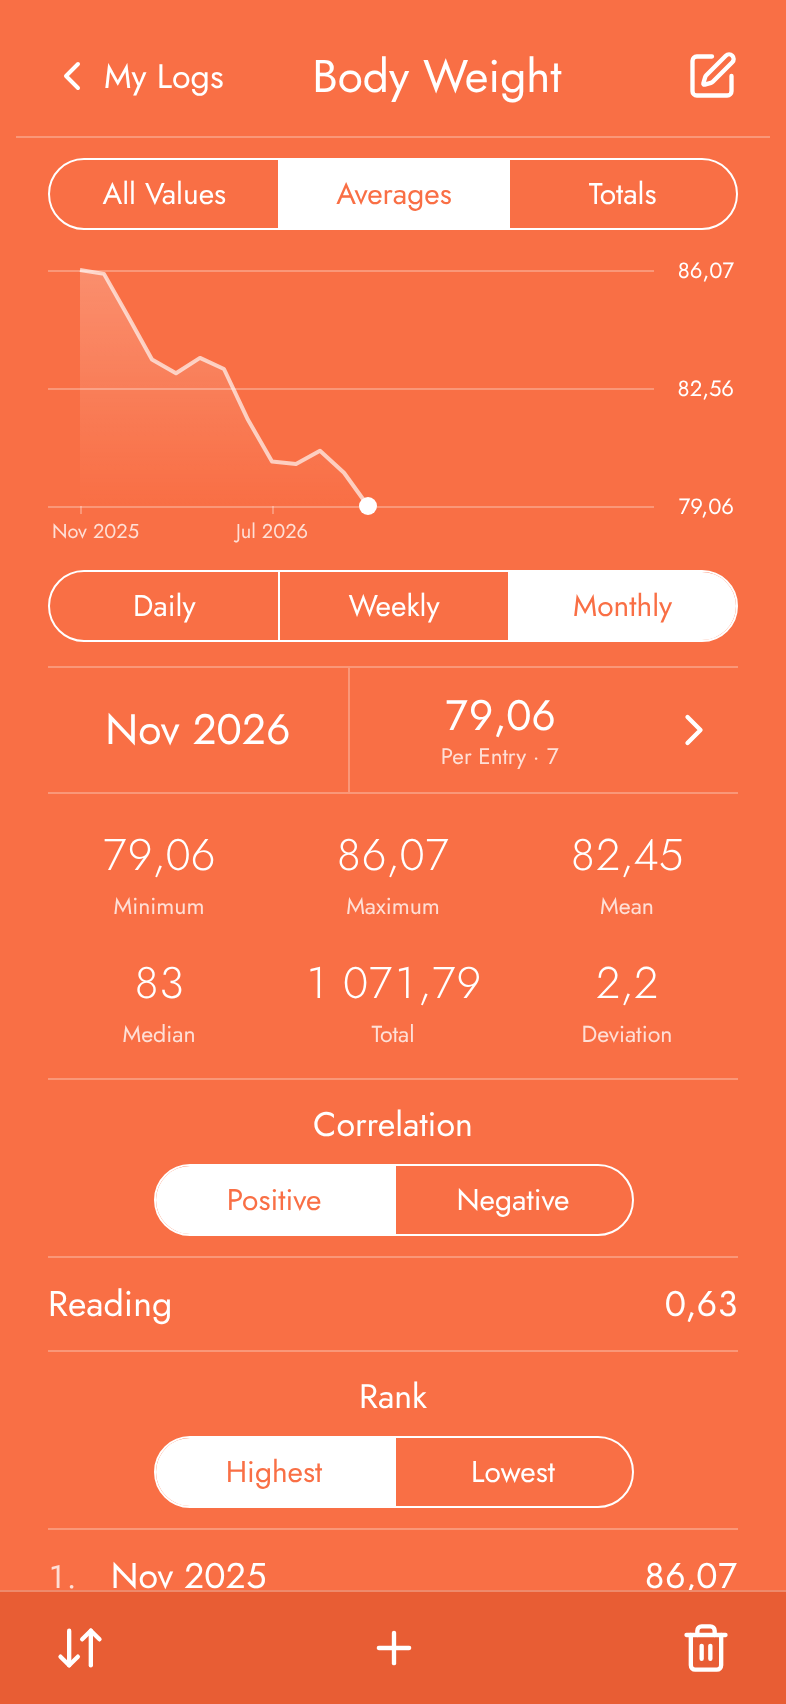
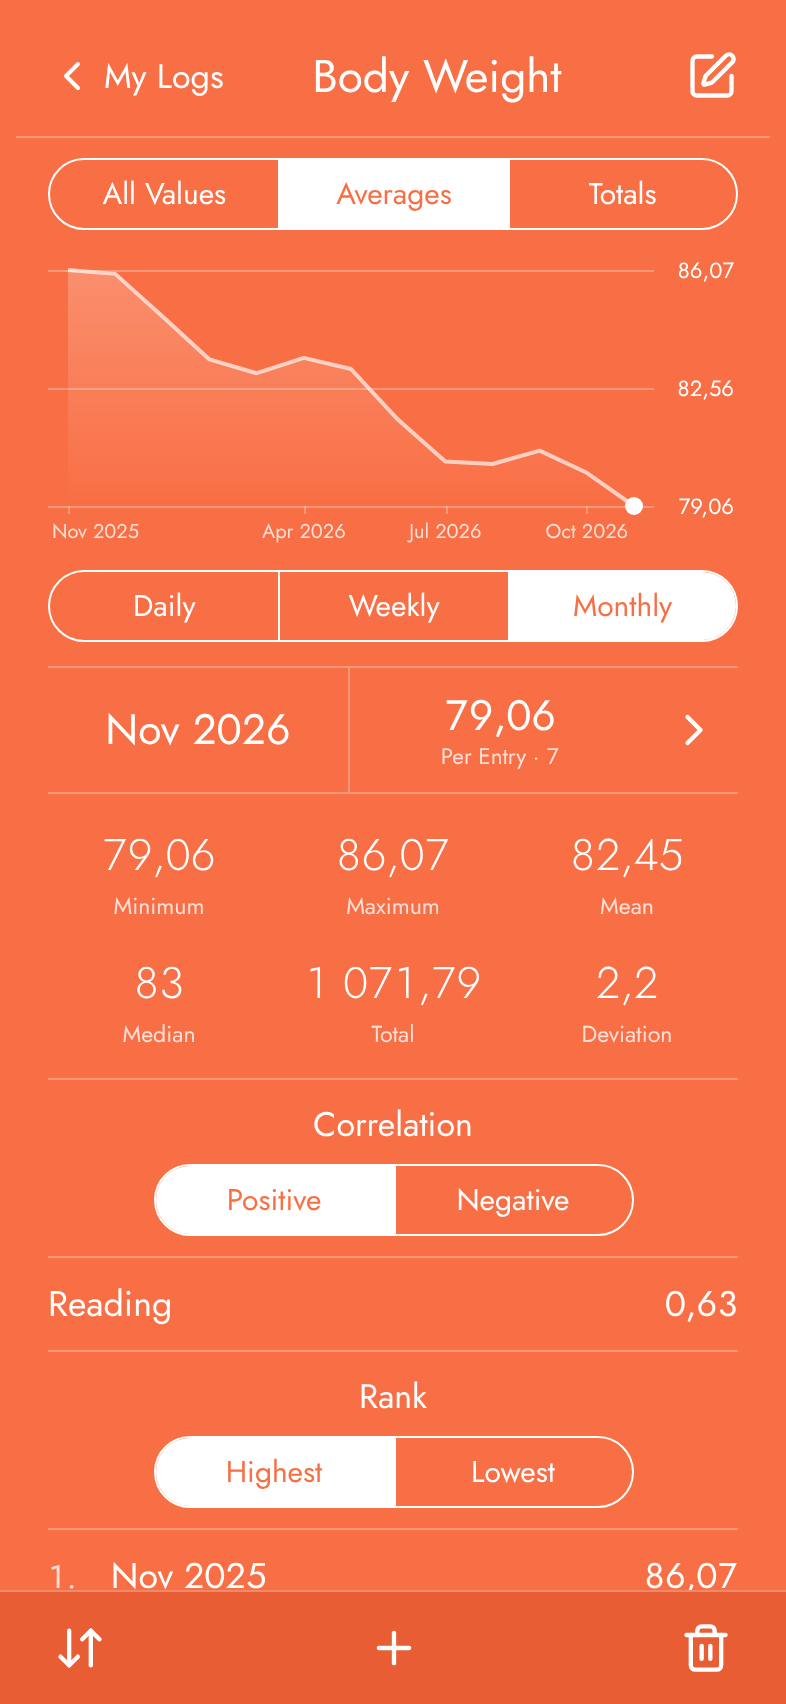
Spread a chart's few points over its whole width
As in the old Loggr app: when the bars or a line's points would leave room to
spare, bars stand side by side across the plot and a line runs from its left
edge to its right, instead of sitting in a narrow strip on the left. With more
than fit, they keep their widths and the chart scrolls, as before.

Claude-Session: https://claude.ai/code/session_012HHCXRyMKaoM5Vvjsat83H

diff --git a/tests/e2e/chart.test.js b/tests/e2e/chart.test.js
@@ -1,0 +1,61 @@
+// The chart: few points are spread over the whole plot, as in the old Loggr app; many scroll.
+import assert from "node:assert/strict";
+import { after, before, describe, it } from "node:test";
+import { home, startHarness } from "./harness.js";
+
+describe("chart", () => {
+  let h, P;
+  const p2 = (x) => String(x).padStart(2, "0");
+  // A metric with one entry a day, n days up to Nov 10 2026, worth 1, 2, 3...
+  const metric = (n) => {
+    const ops = [["metrics", "put", { id: `n${n}`, name: `Points ${n}`, created: "2026-01-01T08:00:00", u: 1 }]];
+    for (let i = 0; i < n; i++) {
+      const d = new Date(2026, 10, 10 - (n - 1 - i));
+      const t = `${d.getFullYear()}-${p2(d.getMonth() + 1)}-${p2(d.getDate())}T08:00:00`;
+      ops.push(["recs", "put", { id: `n${n}.${i}`, m: `n${n}`, y: 2026, t, v: i + 1, u: 2 + i }]);
+    }
+    return ops;
+  };
+  const open = async (n, mode) => {
+    await home(P);
+    await P.click(`[data-open="n${n}"]`);
+    await P.click('[data-mode="totals"]');
+    await P.click('[data-gran="daily"]');
+    await P.click(`[data-mode="${mode}"]`);
+  };
+  const scrolls = () => P.$eval("#chart", (c) => c.scrollWidth > c.clientWidth);
+  // Clicks the chart at a fraction of its plot's width, and returns the value then shown for the selected point
+  const pickAt = async (f) => {
+    const box = await (await P.$("#chart")).boundingBox();
+    await P.mouse.click(box.x + 10 + f * (box.width - 42 - 20), box.y + box.height / 2);
+    return (await P.textContent(".nav .val")).trim();
+  };
+
+  before(async () => {
+    h = await startHarness();
+    P = await h.device();
+    await P.evaluate((ops) => window.__lokki.idb.write(ops), [...metric(3), ...metric(200)]);
+    await P.reload();
+    await P.waitForSelector('[data-open="n3"]');
+  });
+  after(() => h.close());
+
+  it("spreads a few bars, and a few points of a line, over the whole width", async () => {
+    for (const mode of ["totals", "avg", "all"]) {
+      await open(3, mode);
+      assert.equal(await scrolls(), false, mode);
+    }
+    // the bars side by side: clicking the left, middle and right thirds picks the first, second and third
+    await open(3, "totals");
+    assert.deepEqual([await pickAt(0.1), await pickAt(0.5), await pickAt(0.9)], ["1", "2", "3"]);
+  });
+
+  it("scrolls when there are more than fit", async () => {
+    for (const mode of ["totals", "avg", "all"]) {
+      await open(200, mode);
+      assert.equal(await scrolls(), true, mode);
+    }
+  });
+
+  it("logged no errors", () => assert.deepEqual(h.errors, []));
+});

diff --git a/src/ui/chart.js b/src/ui/chart.js
@@ -22,12 +22,27 @@ export function drawChart(ser) {
     line: css.getPropertyValue("--line").trim(),
   };
   const bars = ui.mode === "totals";
-  const step = bars ? 14 : ui.mode === "all" ? 7 : 12;
   const AX = 42,
     PAD = 10;
   const W = sc.clientWidth,
     H = sc.clientHeight;
-  const contentW = Math.max(W, ser.length * step + PAD * 2 + AX);
+  // Points sit `step` apart from x0. When they'd leave room to spare, they're spread over the whole plot, as in the
+  // old Loggr app: bars side by side across it, a line from its left edge to its right. Otherwise the chart scrolls.
+  const n = ser.length,
+    plotW = W - AX - PAD * 2;
+  let step = bars ? 14 : ui.mode === "all" ? 7 : 12,
+    x0 = PAD + step / 2;
+  const fits = n * step < plotW;
+  if (fits) {
+    if (bars) {
+      step = plotW / n;
+      x0 = PAD + step / 2;
+    } else if (n > 1) {
+      step = plotW / (n - 1);
+      x0 = PAD;
+    } else x0 = PAD + plotW / 2;
+  }
+  const contentW = fits ? W : n * step + PAD * 2 + AX;
   sp.style.width = `${contentW}px`;
   const vals = ser.map((x) => x.v);
   let mx = Math.max(...vals),
@@ -43,7 +58,7 @@ export function drawChart(ser) {
   const top = 10,
     bot = H - 22;
   const y = (v) => bot - ((v - mn) / (mx - mn)) * (bot - top);
-  const xOf = (i) => PAD + i * step + step / 2;
+  const xOf = (i) => x0 + i * step;
   // x-axis labels sit on calendar boundaries (month / quarter / year...), chosen once for the whole series so they scroll with the bars
   const mi = (t) => {
     const d = new Date(t);
@@ -76,8 +91,8 @@ export function drawChart(ser) {
     g.setTransform(dpr, 0, 0, dpr, 0, 0);
     g.clearRect(0, 0, W, H);
     const off = sc.scrollLeft;
-    const i0 = Math.max(0, Math.floor((off - PAD) / step) - 2),
-      i1 = Math.min(ser.length - 1, Math.ceil((off + W - PAD) / step) + 2);
+    const i0 = Math.max(0, Math.floor((off - x0) / step) - 2),
+      i1 = Math.min(ser.length - 1, Math.ceil((off + W - x0) / step) + 2);
     g.strokeStyle = col.line;
     g.lineWidth = 1;
     for (const yy of [top, (top + bot) / 2, bot]) {
@@ -159,7 +174,7 @@ export function drawChart(ser) {
   sc.onclick = (ev) => {
     const r = sc.getBoundingClientRect();
     const x = ev.clientX - r.left + sc.scrollLeft;
-    const i = Math.round((x - PAD - step / 2) / step);
+    const i = Math.round((x - x0) / step);
     if (i >= 0 && i < ser.length) {
       ui.sel = i;
       chartScroll.keep = sc.scrollLeft;
